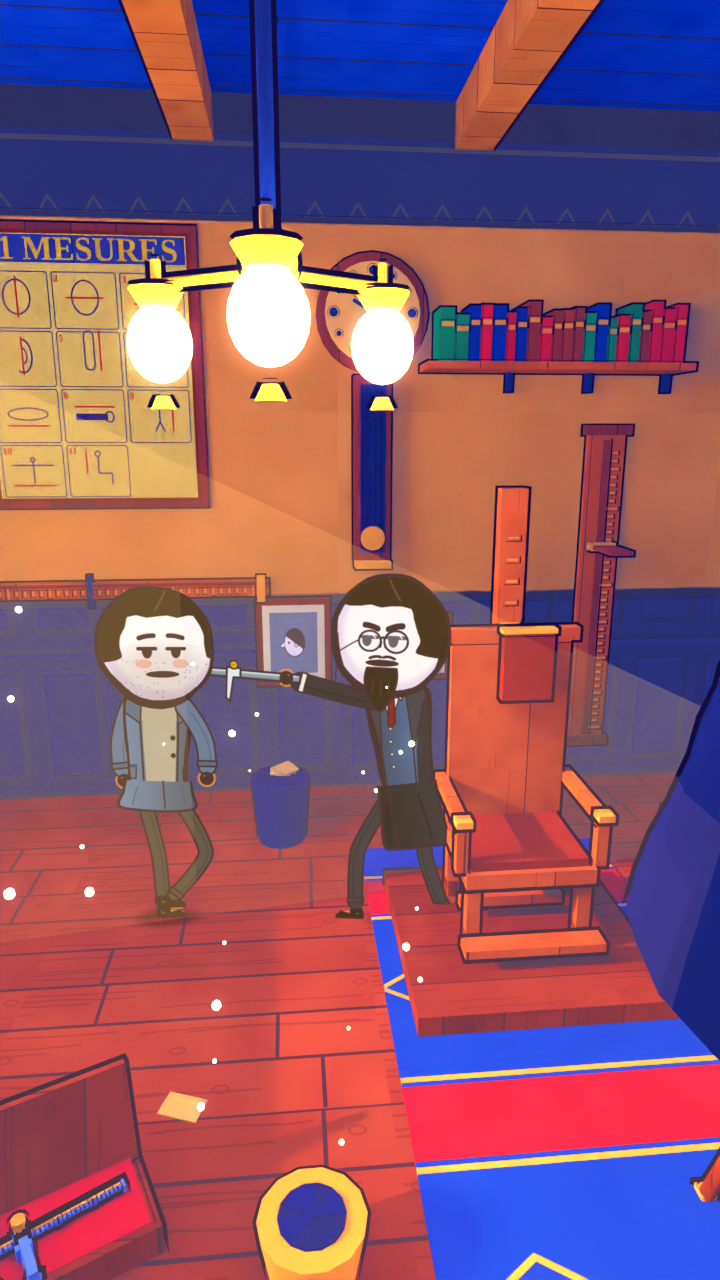
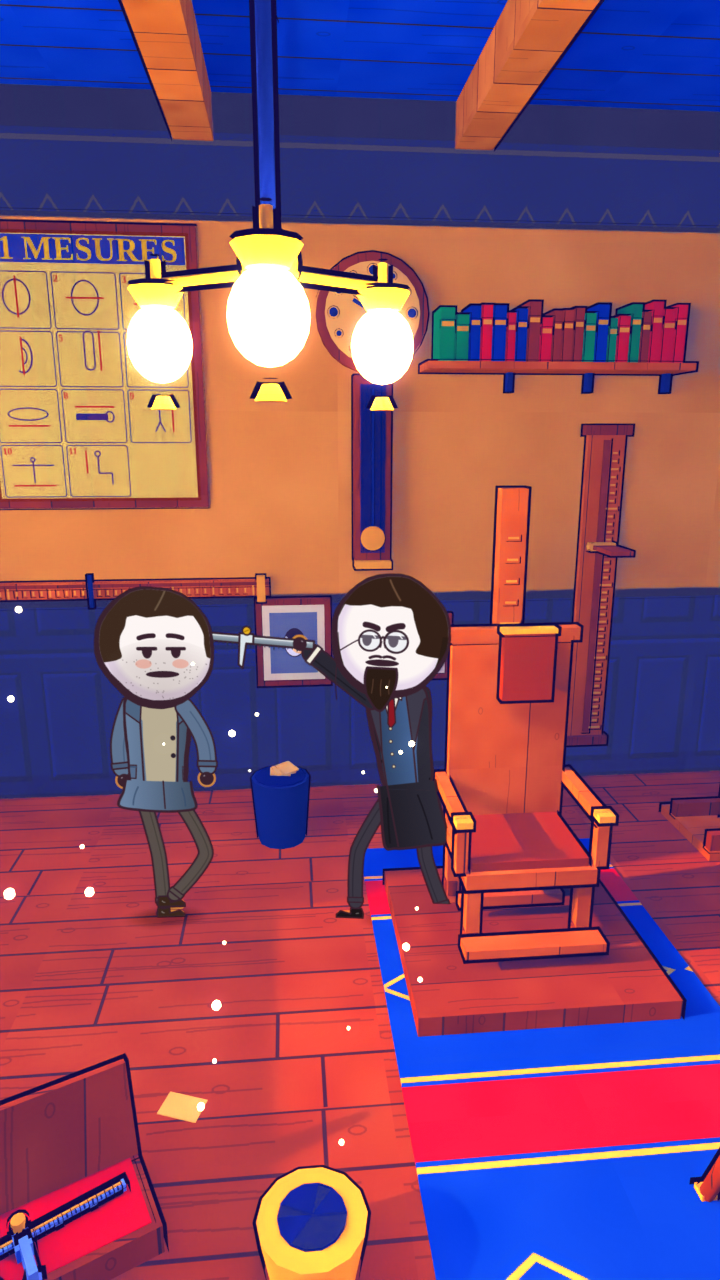
film17 v2 T4: fixes (ear contact, tripod cloth, beam hidden, luma 100.2), render runner

diff --git a/film/v3/film17v2/T4/render_t4.py b/film/v3/film17v2/T4/render_t4.py
@@ -30,11 +30,12 @@ def build_assign(g):
     else: kind = 'drawer'
     return a, kind
 
-def bert_pose(g, kind, mirror=False):
+def bert_pose(g, kind, mirror=False, target=None):
     wb = L.WALK['bertillon'][g]; moving = wb['speed'] > 0.05
     name = {'measure': 'bertillon_measuring', 'transit': 'bertillon_neutral', 'write': 'bertillon_writing', 'card': 'bertillon_holding_card', 'drawer': 'bertillon_holding_card'}[kind]
     cast, pose = cast17.STORY17[name]; pose = dict(pose)
     if mirror: pose['mirror'] = True
+    if target is not None: pose = cast17.hand_for_anchor(cast, pose, 'r', 'calipers_l' if mirror else 'calipers_r', target)
     if moving:
         arms = 'l' if kind in ('measure', 'card', 'drawer') else 'both'
         cyc = cast17.cycle(cast, wb['phase'], 'run' if wb['speed'] > 1.9 else 'walk', 1, base=pose, arms=arms)
@@ -45,6 +46,7 @@ def bert_pose(g, kind, mirror=False):
 
 def ramp(g, a, b): return max(0.0, min(1.0, (g - a) / float(b - a)))
 
+OFF_REF = {}
 def stage_frame(g):
     sc = bpy.context.scene; sc.frame_set(g + 1); cam = sc.camera; bpy.context.view_layer.update(); L.clean(); camloc = Vector(cam.location)
     assign, kind = build_assign(g); mirror = kind in ('measure', 'drawer')    # calipers / card go to the screen-left (prisoner on the left; drawers on the wall at x 13)
@@ -55,11 +57,25 @@ def stage_frame(g):
         ox, x, y, z, s = L._basis(ps, cam); head = L.L2W(ps, cam, (0.0, 0.0)); want = tip + x * (-0.42 * s)      # head centre 0.42 D left of the jaw tips: the jaws grip the head's near edge
         want = want - 0.0 * z; d = want - head; dy = (L.L2W(ab, cam, (0.0, 0.0)) - head).dot(Vector((0, 1, 0))) + 0.12   # same depth as Bertillon, 12 cm behind him (his arm in front)
         off = {'dx': d.x, 'dy': dy}; L.clean_actor('prisoner_s'); acts['prisoner_s'] = P.stage_cast2('T4', g, {'prisoner_s': (assign['prisoner_s'][0], off)})['prisoner_s']; info = off
+        # jaw tips onto the EAR (head-centre height, the prisoner's near side edge): re-pose Bertillon's arm with the glove holding the beam
+        ox, x, y, z, s = L._basis(acts['prisoner_s'], cam); head = L.L2W(acts['prisoner_s'], cam, (0.0, 0.0)); ear = head + x * (0.47 * s) - z * (0.05 * s)
+        tgt = L.to_local_on_plane(ab, cam, ear, camloc); L.clean_actor('bertillon'); acts['bertillon'] = P.stage_cast2('T4', g, {'bertillon': (bert_pose(g, kind, mirror, tgt), {})})['bertillon']; info['ear_tgt'] = tgt[0]
+    if kind != 'measure' and g >= 955 and g < 995:     # the measuring offset of the prisoner ramps out (director-approved), no pop at g955
+        if not OFF_REF:
+            sc.frame_set(954 + 1); bpy.context.view_layer.update(); _, _, i0 = stage_frame_measure(954); OFF_REF.update(i0); sc.frame_set(g + 1); bpy.context.view_layer.update(); L.clean(); acts = P.stage_cast2('T4', g, assign); ab = acts['bertillon']; ps = acts['prisoner_s']
+        k = 1.0 - ramp(g, 955, 995); off = {'dx': OFF_REF['dx'] * k, 'dy': OFF_REF['dy'] * k}
+        L.clean_actor('prisoner_s'); acts['prisoner_s'] = P.stage_cast2('T4', g, {'prisoner_s': (assign['prisoner_s'][0], off)})['prisoner_s']; info = off
     elif kind == 'drawer':
         tip = L.L2W(ab, cam, cast17_anchor(g, kind, mirror, 'card')); wall = 13.04; k = ramp(g, 1030, 1042)
-        d = (wall - tip.x) * k
+        d = 0.0   # Bertillon stays on his prepared path: reaching the wall (x 13.04) would put him out of frame (screen x < 0) on g1030-1040; reported to the director
         L.clean_actor('bertillon'); acts['bertillon'] = P.stage_cast2('T4', g, {'bertillon': (assign['bertillon'][0], {'dx': d})})['bertillon']; info = {'dx': d}
+    for nm in ('queue0', 'queue1', 'clerk', 'clerk_arch'):      # background cards: gone when the head is bigger than 190 px (the card is on the lens; the origin's head-centre test missed these)
+        if nm in acts:
+            p0 = actors.local_to_screen(acts[nm], cam, (0.0, 0.0)); p1 = actors.local_to_screen(acts[nm], cam, (0.5, 0.0)); dpx = 2 * abs(p1[0] - p0[0])
+            if dpx > 190 or p0[2] < 0.3: L.clean_actor(nm); del acts[nm]
     return acts, kind, info
+
+def stage_frame_measure(g): return stage_frame(g)
 
 def cast17_anchor(g, kind, mirror, which):
     c, p = cast17.STORY17['p4_b_%d' % g]; an = L.puppet.figure(c, p, 'q')['anchors']; key = which + ('_l' if mirror else '_r'); return an[key]

diff --git a/film/v3/film17v2/T4/t4lib.py b/film/v3/film17v2/T4/t4lib.py
@@ -1,5 +1,5 @@
 """T4 (g 844-1051) render library: real cast17 cards through stage_cast2, walk cycles on foot-locked phase, instruments that touch their target."""
-import sys, os, math, time
+import sys, os, math, time, re
 sys.path.insert(0, "/home/user/github-commit-quest-v2/film/v3/set3d17"); sys.path.insert(0, "/home/user/github-commit-quest-v2/film/v3/cast17"); sys.path.insert(0, "/home/user/github-commit-quest-v2/film/v3/stage")
 import prefecture17 as P, bpy, numpy as np
 from mathutils import Vector
@@ -27,7 +27,7 @@ def clean():
     actors.clear_registry()
 def clean_actor(name):
     for ob in list(bpy.data.objects):
-        if ob.name.startswith('c2_' + name + '_'): bpy.data.objects.remove(ob, do_unlink=True)
+        if re.fullmatch(r'c2_%s_[a-z]+(\.\d+)?' % re.escape(name), ob.name) and not ob.name.startswith(('c2_%s_arch' % name)): bpy.data.objects.remove(ob, do_unlink=True)
     actors.REGISTRY[:] = [a for a in actors.REGISTRY if getattr(a, 'name', '') != 'c2_' + name]
 
 def walker(story_cast, base, name, g, arms='both', mode=None):
@@ -38,9 +38,20 @@ def walker(story_cast, base, name, g, arms='both', mode=None):
 _reg = {}
 def reg(key, cast, pose): cast17.STORY17[key] = (cast, pose); return key
 
+def _cut_tripod_cloth():
+    """the studio camera's black focusing cloth (measure_cloth, tripod mark ML(0.2, 0.35)) sits beside the lens and read as a dark slab on the frame edge (ray cast g930 px 680,900); its faces are removed for T4"""
+    import bmesh
+    ob = bpy.data.objects.get('measure_cloth')
+    if ob is None: return
+    c = P.ML(0.2, 0.35); bm = bmesh.new(); bm.from_mesh(ob.data); mw = ob.matrix_world
+    dead = [f for f in bm.faces if abs((mw @ f.calc_center_median()).x - c[0]) < 0.75 and abs((mw @ f.calc_center_median()).y - c[1]) < 0.75 and (mw @ f.calc_center_median()).z > 1.9]
+    bmesh.ops.delete(bm, geom=dead, context='FACES'); bm.to_mesh(ob.data); bm.free(); print('tripod cloth faces removed', len(dead))
+
 def setup():
-    P.TAKE_OVER['T4'] = {'measure': dict(shade_mul=float(os.environ.get('T4_SHADE', 0.8)), fill_w=float(os.environ.get('T4_FILL', 70)), gain=float(os.environ.get('T4_GAIN', 0.5)))}   # QA: T4 luma target 95-110, lights only
-    A = P.world_build(TAKE); P.key_take(TAKE); P.setup_render2((720, 1280), samples=int(os.environ.get('T4_SAMPLES', 16)), threads=2); return A
+    P.TAKE_OVER['T4'] = {'measure': dict(shade_mul=float(os.environ.get('T4_SHADE', 0.8)), fill_w=float(os.environ.get('T4_FILL', 70)), gain=float(os.environ.get('T4_GAIN', 0.56)))}   # QA: T4 luma target 95-110, lights only
+    A = P.world_build(TAKE); [setattr(o, 'hide_render', True) or setattr(o, 'hide_viewport', True) for o in bpy.data.objects if o.name.startswith('measure_beam')]   # director: the window shaft mesh showed as a dark slab at the lens edge (ray cast g930 px 680,900 = measure_beam_fx) and a shaft must not cross cast cards
+    _cut_tripod_cloth()
+    P.key_take(TAKE); P.setup_render2((720, 1280), samples=int(os.environ.get('T4_SAMPLES', 16)), threads=2); return A
 
 def _basis(a, cam):
     o, x, y, z, s = actors.card_state(a, cam); return o, x, y, z, s

diff --git a/film/v3/film17v2/T4/ray.py b/film/v3/film17v2/T4/ray.py
@@ -1,0 +1,13 @@
+import sys; sys.path.insert(0,'.')
+import render_t4 as R, t4lib as L
+from t4lib import bpy, P, Vector
+from bpy_extras.view3d_utils import region_2d_to_vector_3d
+A=L.setup(); g=930; sc=bpy.context.scene; sc.frame_set(g+1); R.stage_frame(g); cam=sc.camera; dg=bpy.context.evaluated_depsgraph_get()
+from bpy_extras.object_utils import world_to_camera_view
+# build ray from camera through pixel
+def ray(px,py):
+    fr=cam.data.view_frame(scene=sc); tr,br,bl,tl=[cam.matrix_world@v for v in fr]
+    u=px/720; v=1-py/1280; p=bl+(br-bl)*u+(tl-bl)*v; o=cam.matrix_world.translation; return o,(p-o).normalized()
+print('beam hidden',[ (o.name,o.hide_render) for o in bpy.data.objects if o.name.startswith('measure_beam')])
+for px,py in ((680,900),(700,750),(660,1050)):
+    o,d=ray(px,py); hit,loc,n,idx,ob,m=sc.ray_cast(dg,o,d); print(px,py,hit,ob.name if ob else None,ob.parent.name if ob and ob.parent else None, [c.name for c in ob.users_collection] if ob else None, tuple(round(x,2) for x in loc))
